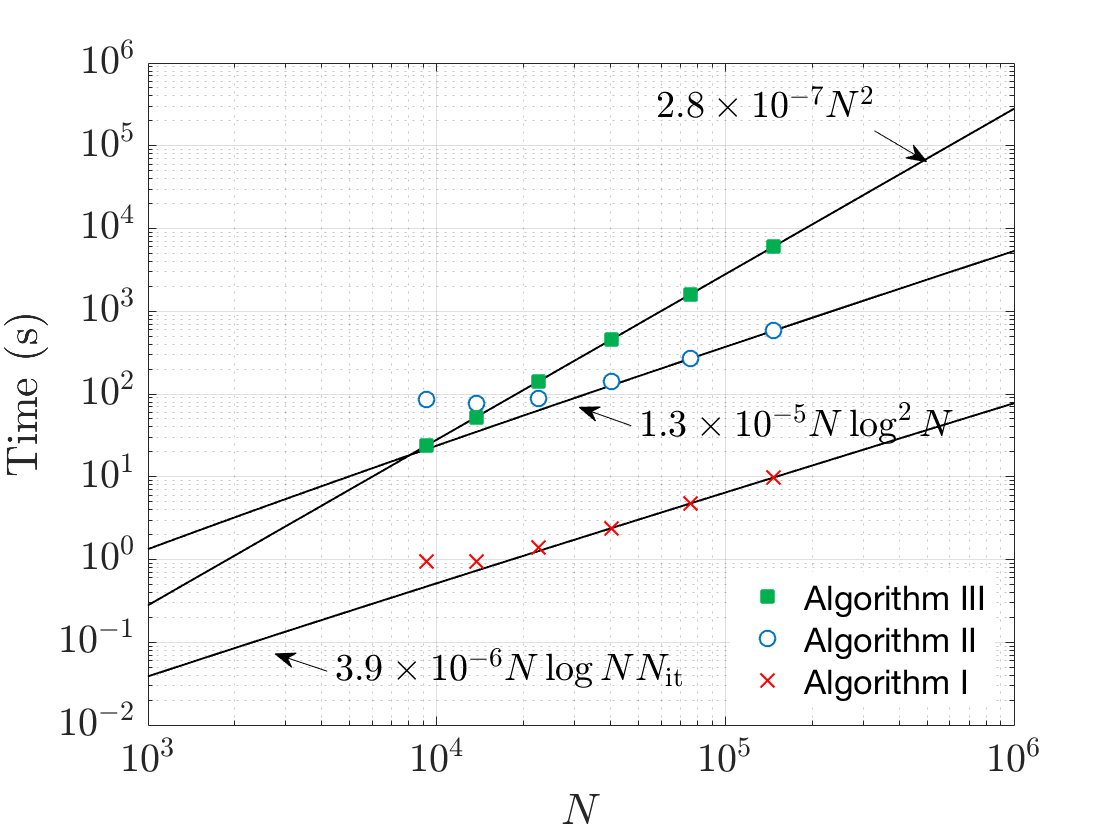
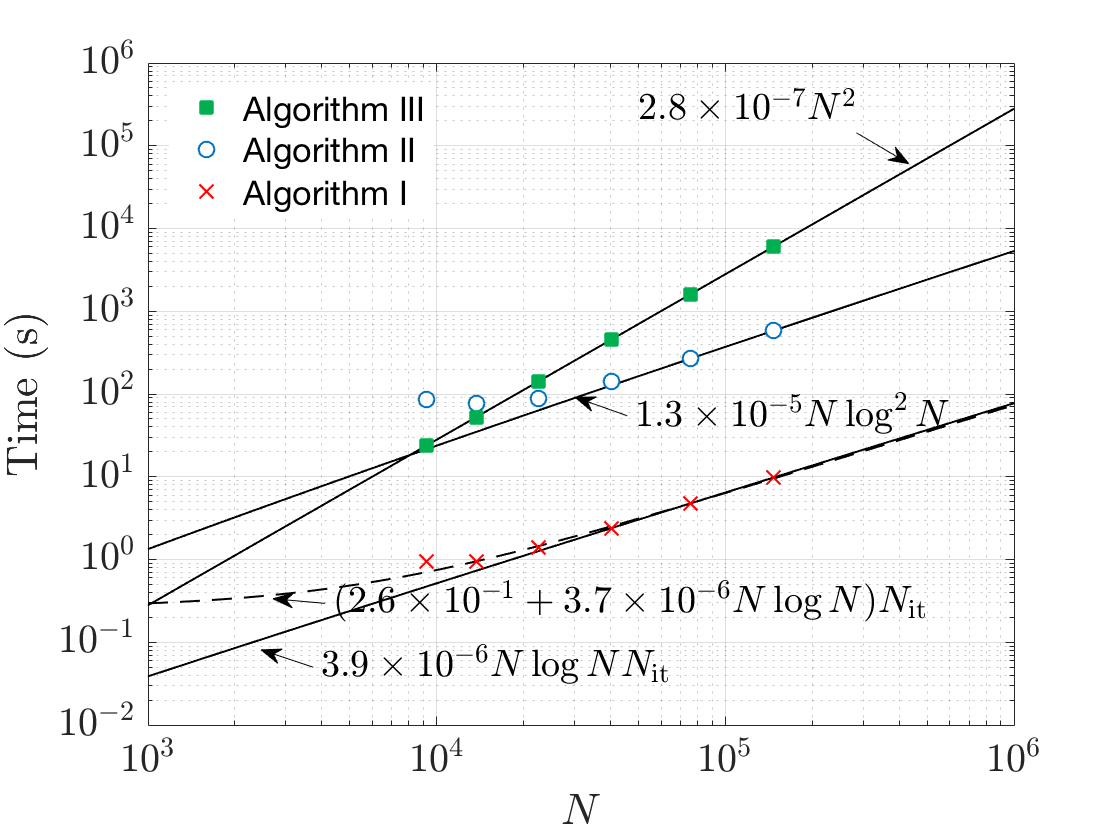
Added 2-term fitting
- not everything is perfect and automatic, but one can start using it
- added shift-protection against size of the input data

diff --git a/getStringAnnot_2terms.m b/getStringAnnot_2terms.m
@@ -1,0 +1,102 @@
+function [annot] = getStringAnnot_2terms(c,r,k,p,q,iterative,letter)
+% getStringAnnot_2terms - Scaling plot annotation
+% Forms string for scaling plot annotation of the form c*N^r + k*N^p log^q N
+% Note, string is formed in LaTeX format, requiring LaTeX interpreter to be
+% turned on in the file, where it is being called.
+%
+% Syntax: annotation = getStringAnnot(c,r,k,p,q,iterative,letter)
+%
+% Inputs:
+%    c - scaling coefficient for the first term, only 2 decimal places are used
+%    r - power of N in the first term
+%    k - scaling coefficient for the second term, only 2 decimal places will be taken for string
+%    p - power of N in the second term
+%    q - power of the log in the second term
+%    iterative - true\false, if true - will add N_it to the end of the annotation
+%    letter - which letter to use for (instead of N) 
+% Outputs: 
+%    annot ? resulting LaTeX formatted string
+% 
+% Example: 
+%     annot = getStringAnnot(5.5E+2,1,19.5E+2,2,3,0,'N');
+%             annot = "$5.5\times10^{2}N+1.9\times10^{3}N^{2}\log^{3}{N}N_{it}$"
+% Other m-files required: getMantExpnt.m
+% Subfunctions: none
+% MAT-files required: none
+%
+% See also: 
+%
+% Author: Anton Menshov
+% Email: anton.menshov@gmail.com  
+% Website: http://antonmenshov.com/
+
+
+% form the coefficient
+[c_m,c_e]=getMantExpnt(c);
+[k_m,k_e]=getMantExpnt(k);
+num_decimal_places_mantissa=2;
+if (c_e~=0)
+    part1_term1=strcat(num2str(c_m,num_decimal_places_mantissa),'\times','10^{',num2str(c_e,3),'}');
+else
+    part1_term1=strcat(num2str(c_m,num_decimal_places_mantissa));
+end
+if (k_e~=0)
+    part1_term2=strcat(num2str(k_m,num_decimal_places_mantissa),'\times','10^{',num2str(k_e,3),'}');
+else
+    part1_term2=strcat(num2str(k_m,num_decimal_places_mantissa));
+end
+
+% form the polynomial term for the first term
+if (floor(r)==r) %r is integer
+    if (r==1)
+        part2_term1=letter;  % no power is required for linear term
+    elseif (r==0)
+        part2_term1='';   % for a constant scaling even the 'N' itself is not required
+    else
+        part2_term1=strcat(letter,'^{',num2str(r),'}'); % otherwise the power is written
+    end
+else
+    num_decimal_places_Nscaling=2;
+    % if r is not integer, 2 decimal places are used.
+    part2_term1=strcat(letter,'^{',num2str(r,num_decimal_places_Nscaling),'}');   
+end
+
+% form the polynomial term for the second term
+if (floor(p)==p) %p is integer
+    if (p==1)
+        part2_term2=letter;  % no power is required for linear term
+    elseif (p==0)
+        part2_term2='';   % for a constant scaling even the 'N' itself is not required
+    else
+        part2_term2=strcat(letter,'^{',num2str(p),'}'); % otherwise the power is written
+    end
+else
+    num_decimal_places_Nscaling=2;
+    % if p is not integer, 2 decimal places are used.
+    part2_term2=strcat(letter,'^{',num2str(p,num_decimal_places_Nscaling),'}');   
+end
+
+% form the logarithmic term
+if (q==0) % if power of the log is 0 - no need to add anything to the string
+    part3='';
+else
+    if (q==1)
+        part3=strcat('\log {',letter,'}');
+    else
+        %fractional log powers are not yet supported
+        part3=strcat('\log^{',num2str(q),'}',letter); 
+    end
+end
+
+%add N_it if the scaling is for an iterative method
+if (iterative==1)
+   part0='(';
+   part4=')N_\mathrm{it}';
+else
+   part0='';
+   part4='';
+end
+
+annot=strcat('$',part0,part1_term1,part2_term1,'+',part1_term2,part2_term2,part3,part4,'$');
+
+end

diff --git a/getAsymptVector_2terms.m b/getAsymptVector_2terms.m
@@ -1,0 +1,94 @@
+function [asympt,c,k] = getAsymptVector_2terms(points,r,p,b,q,n,data,shift1,shift2)
+% getAsymptVector - Finds the scaling curve and coeffictions
+% Finds the fitting line to a curve of the type c*N^r+k*(N^p log_b^q N)
+
+% Syntax: [asympt,c,k] = getAsymptVector(points,r,p,b,q,n,data,shift1,shift2)
+%
+% Inputs:
+%    points - set of points to evaluate the fit
+%    r - power of N in the first term
+%    p - power of N in the second term
+%    b - base of the log: b is LARGER THAN ZERO!
+%    q - power of the log in the second term : q is LARGER OR EQUAL THAN ZERO!
+%    n - sample points of the data
+%    data - data to fit
+%    shift1,shift2 - the fitting will be performed to the right-most data point if shift is 0.
+%            if shift is =1 - the fitting line will be performed for the second to the
+%            left point, etc. shift1=1,shift2=2 is a very reasonable choice.
+%            For this version of the fitting, shift1 should not be equal to
+%            shift2, otherwise trying to fit two terms to only one point
+%
+%
+% Outputs: 
+%    asympt - vector of sample of the fitted line (y-values)
+%    c - fitting coefficient for the first term
+%    k - fitting coefficient for the second term
+%
+% Example: 
+%     [asympt,c,k] = getAsymptVector([POINTS],1,1,2,3,[N],[DATA],2,2);
+%             fit a line at [POINTS] to [DATA] corresponding to [N]-values
+%             the curve is of the type N + N log^3 N, base of the log is 2
+%             data is fitted to the third point from the right for both
+%             terms
+%
+% Other m-files required: none
+% Subfunctions: none
+% MAT-files required: none
+%
+% See also: 
+%
+% Author: Anton Menshov
+% Email: anton.menshov@gmail.com  
+% Website: http://antonmenshov.com/
+
+if (shift1==shift2)
+    error('shifts are identical');
+end
+
+N=size(data,1);
+SizeOut=size(points,1);
+asympt=zeros(SizeOut,1);
+
+if (N-shift1<1)
+    error('shift1 exceeds the amount of given data');
+end
+if (N-shift2<1)
+    error('shift2 exceeds the amount of given data');
+end
+
+M=zeros(2,2);
+d=zeros(2,1);
+
+if ((b<=0)) %if base of the logarithm is accidentally smaller than 0 - ignore log
+    M(1,1)=n(N-shift1)^r;
+    M(1,2)=n(N-shift1)^p;
+    M(2,1)=n(N-shift2)^r;
+    M(2,2)=n(N-shift2)^p;
+else
+    M(1,1)=n(N-shift1)^r;
+    M(1,2)=n(N-shift1)^p*(log(n(N-shift1))^q)/(log(b)^q);
+    M(2,1)=n(N-shift2)^r;
+    M(2,2)=n(N-shift2)^p*(log(n(N-shift2))^q)/(log(b)^q);   
+end
+
+d(1)=data(N-shift1);
+d(2)=data(N-shift2);
+
+AB=linsolve(M,d);
+
+if (AB(1)<0 || AB(2)<0)
+    error('Failure to fit. Negative fitting coeffitients.');
+end
+
+for i=1:SizeOut
+    if ((b<=0)) %if base of the logarithm is accidentally smaller than 0 - ignore log
+        asympt(i)=AB(1)*(points(i)^r)+AB(2)*(points(i)^p);
+    else
+        asympt(i)=AB(1)*(points(i)^r)+AB(2)*(points(i)^p)*(log(points(i))^q)/(log(b)^q);
+    end
+end
+
+c=AB(1);
+k=AB(2);
+
+end

diff --git a/main.m b/main.m
@@ -47,6 +47,12 @@ n=logspace(minN,maxN,NumAsympt)';
 %obtain a string for annotation
 s1_annot=getStringAnnot(k1,1,1,1,'N');
 
+% get the asymptotic line (x -> n, y -> asympt4) and scaling coefficients (c4,k4)
+% fitting a 2-term fit for the same plot
+[asympt4,c4,k4]=getAsymptVector_2terms(n,0,1,LogBase,1,N,Timing1,shift,shift+3);
+%obtain a string for annotation
+s4_annot=getStringAnnot_2terms(c4,0,k4,1,1,1,'N');
+
 % get the asymptotic line (x -> n, y -> asympt2) and scaling coefficient (k2)
 % fitting N\log^2N for a non-iterative algorithm
 [asympt2,k2]=getAsymptVector(n,1,LogBase,2,N,Timing2,shift);
@@ -65,6 +71,7 @@ figure(1)
 % algorithm I timing
 % plot asymptotic line
 ch1=loglog(n,asympt1,'k-','LineWidth',MyLineWidth);     hold on;
+ch4=loglog(n,asympt4,'k--','LineWidth',MyLineWidth);     hold on;
 % plot actual data with the markers
 p1=loglog(N,Timing1,'x','LineWidth',MyLineWidth,'MarkerSize',MyMarkerSize);hold on;
 % customize the look of the plot
@@ -98,6 +105,8 @@ yticks(ticksY);
 % place annotations after the limits (xlim,ylim) have been setup
 [x1,y1,x2,y2]=getAnnotationPosition(n,asympt1,0.85,BaseAnnotationLineLength,1.0,2);
 annotation('textarrow',[x1,x2],[y1,y2],'interpreter','latex','String',s1_annot,'FontSize',ff-4);
+[x1,y1,x2,y2]=getAnnotationPosition(n,asympt4,0.85,BaseAnnotationLineLength,1.0,2);
+annotation('textarrow',[x1,x2],[y1,y2],'interpreter','latex','String',s4_annot,'FontSize',ff-4);
 [x1,y1,x2,y2]=getAnnotationPosition(n,asympt2,0.5,BaseAnnotationLineLength,1.0,2);
 annotation('textarrow',[x1,x2],[y1,y2],'interpreter','latex','String',s2_annot,'FontSize',ff-4);
 [x1,y1,x2,y2]=getAnnotationPosition(n,asympt3,0.1,BaseAnnotationLineLength,1.0,1);
@@ -109,7 +118,7 @@ xlabel('$N$');
 ylabel('Time (s)');
 
 % legend
-h=legend([p3 p2 p1],{'Algorithm III','Algorithm II','Algorithm I'},'Location','southeast');
+h=legend([p3 p2 p1],{'Algorithm III','Algorithm II','Algorithm I'},'Location','northwest');
 h.FontSize=ff-6.;
 h.EdgeColor=[1. 1. 1.];
 h.Interpreter='none';

diff --git a/getStringAnnot.m b/getStringAnnot.m
@@ -1,10 +1,10 @@
 function [annot] = getStringAnnot(k,p,q,iterative,letter)
 % getStringAnnot - Scaling plot annotation
-% Forms string for scaling plot annotation of the form N^p log^q N
+% Forms string for scaling plot annotation of the form k*N^p log^q N
 % Note, string is formed in LaTeX format, requiring LaTeX interpreter to be
 % turned on in the file, where it is being called.
 %
-% Syntax: annotation = getStringAnnot(k,p,q,iterative)
+% Syntax: annotation = getStringAnnot(k,p,q,iterative,letter)
 %
 % Inputs:
 %    k - scaling coefficient, only 2 decimal places will be taken for string
@@ -32,7 +32,11 @@ function [annot] = getStringAnnot(k,p,q,iterative,letter)
 % form the coefficient
 [k_m,k_e]=getMantExpnt(k);
 num_decimal_places_mantissa=2;
-part1=strcat(num2str(k_m,num_decimal_places_mantissa),'\times','10^{',num2str(k_e,3),'}');
+if (k_e~=0)
+    part1=strcat(num2str(k_m,num_decimal_places_mantissa),'\times','10^{',num2str(k_e,3),'}');
+else
+    part1=strcat(num2str(k_m,num_decimal_places_mantissa));
+end
 
 % form the polynomial term
 if (floor(p)==p) %p is integer

diff --git a/getAsymptVector.m b/getAsymptVector.m
@@ -40,6 +40,10 @@ N=size(data,1);
 SizeOut=size(points,1);
 asympt=zeros(SizeOut,1);
 
+if (N-shift<1)
+    error('shift exceeds the amount of given data');
+end
+
 if ((b<=0)) %if base of the logarithm is accidentally smaller than 0 - ignore log
     M(1,1)=(n(N-shift)^p); 
 else
